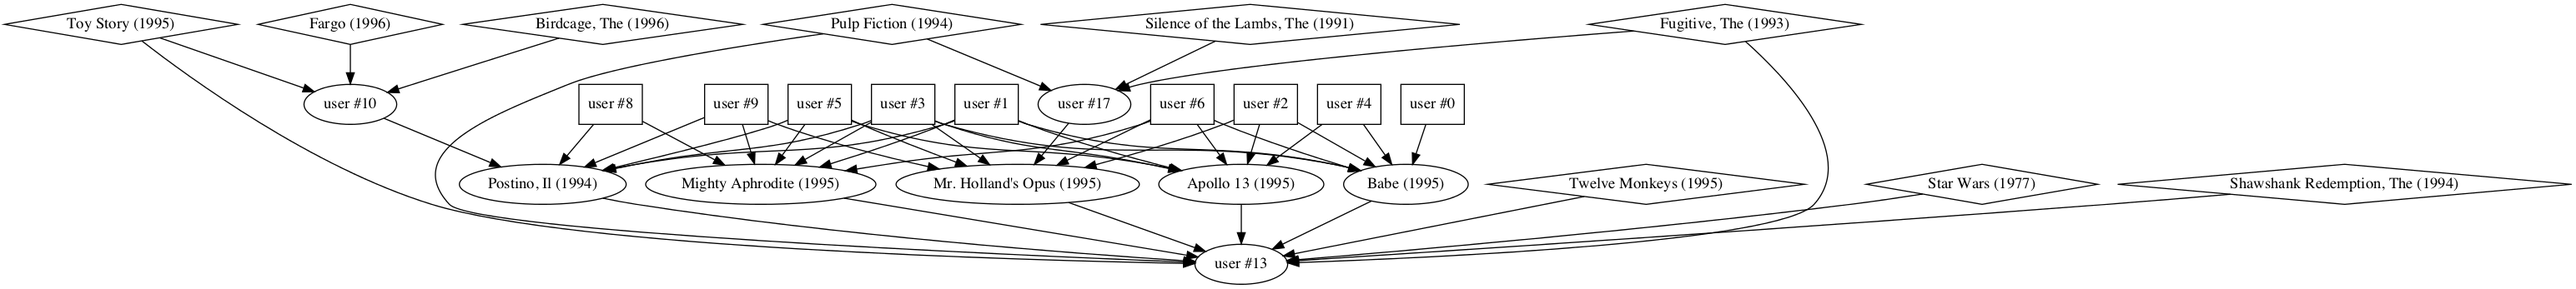
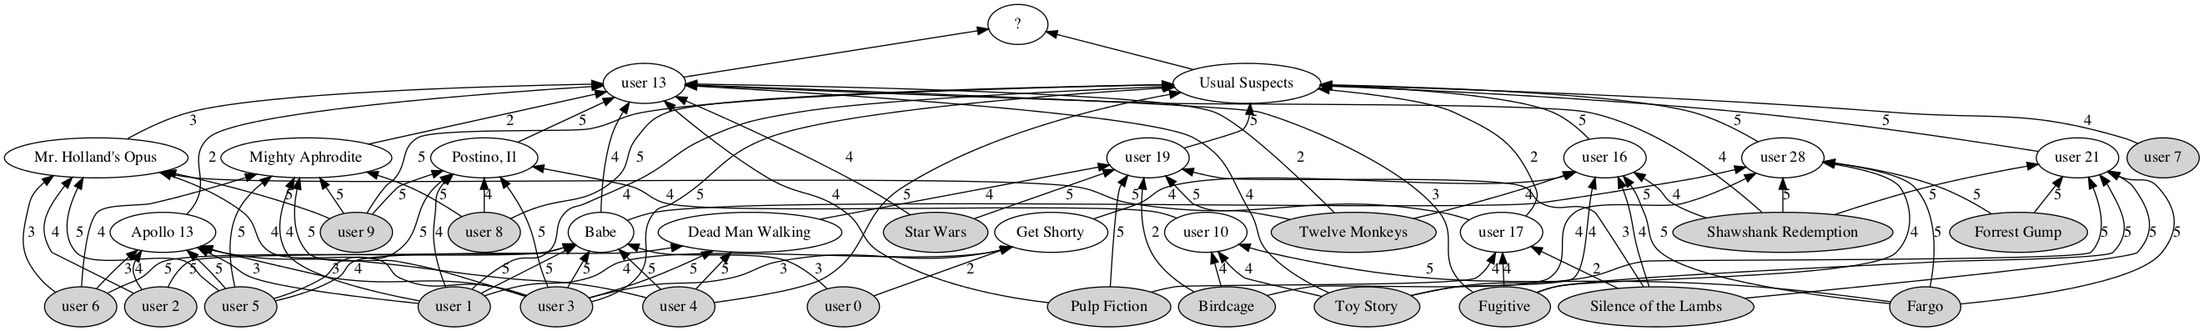
Graphing works as should

diff --git a/Framework/GenGraph.py b/Framework/GenGraph.py
@@ -19,7 +19,7 @@ def numel(items = [], isMovie = 0, names=[[],[]], call_train = {}, data = None):
             numel(items,not isMovie, names, child,data)
     return items
 
-def draw_stuff(names,call_train,data):
+def draw_stuff(names,call_trains,data):
     with warnings.catch_warnings():
         warnings.filterwarnings("ignore")
         import igraph
@@ -27,35 +27,38 @@ def draw_stuff(names,call_train,data):
         igraph.__version__
 
         g = pgv.AGraph(directed=True,ranksep='.1',nodesep='.1')
-        print call_train
-
-        edges = numel([],0,names,call_train, data)
-        print edges
-        sublprop = zip(*edges)[:2]
-        vertices = set([item for sublist in sublprop for item in sublist])
-        #Create mapped edges
-        g.add_nodes_from(vertices)
-        for edge in edges:
-            print "New edge"
-            print edge
-            g.add_edge(edge[1],edge[0],label=edge[2],dir='back')
-
+        print call_trains
+        ind = 0
+        for call_train in call_trains:
+            edges = numel([],ind,names,call_train, data)
+            print edges
+            sublprop = zip(*edges)[:2]
+            vertices = set([item for sublist in sublprop for item in sublist])
+            #Create mapped edges
+            g.add_nodes_from(vertices)
+            for edge in edges:
+                print "New edge"
+                print edge
+                g.add_edge(edge[1],edge[0],label=edge[2],dir='back')
+            ind+=1
         for x in range(100):
             #User
             try:
                 n = g.get_node(names[0][x])
                 if x < 10:
-                    n.attr['shape'] = 'box'
-                n.attr['color'] = 'blue'
+                    n.attr['style'] = 'filled'
+                #n.attr['color'] = 'blue'
             except:
                 pass
             try:
                 n = g.get_node(names[1][x])
                 if x < 10 :
-                    n.attr['shape'] = 'box'
-                n.attr['color'] = 'green'
+                    n.attr['style'] = 'filled'
+                #n.attr['color'] = 'green'
             except:
                 pass
+            g.add_edge(names[0][call_trains[0].keys()[0]],'?',dir='back')
+            g.add_edge(names[1][call_trains[1].keys()[0]],'?',dir='back')
         g = g.reverse()
         g.layout(prog="dot",)
         g.draw('file.png')

diff --git a/Framework/atnn.py b/Framework/atnn.py
@@ -8,7 +8,8 @@ print core.__file__
 #full_data = DataLoader().LoadData(file_path="../Data/ml-10m/ratingsbetter.dat", data_type=DataLoader.MOVIELENS, size= (72000,11000))
 #full_data = DataLoader().LoadData(file_path="../Data/ml-1m/ratingsbetter.dat", data_type=DataLoader.MOVIELENS, size= (6100,4000))
 full_data = DataLoader().LoadData(file_path="../Data/ml-100k/u.data", data_type=DataLoader.MOVIELENS, size= (1200,2000))
-print full_data.shape
+#full_data = DataLoader().LoadData(file_path="../Data/download/user_first.txt", data_type=DataLoader.NETFLIX, size= (490000,18000))
+#print full_data.shape
 print np.mean(np.sum(full_data > 0,axis = 1)) #Check average ratings per user
 # Reduce the matrix to toy size
 full_data = full_data[:100,:100]
@@ -50,20 +51,21 @@ print can_idx
 with open("../Data/ml-100k/u.item") as f:
     names = [x.split('|')[1] for x in f.readlines()]
 
-names = [names[x] for x in can_idx[1]]
-unames = ["user #" + str(i) for i in range(88)]
+names = [names[x].split('(')[0].strip().replace(', The','') for x in can_idx[1]]
+unames = ["user " + str(i) for i in range(88)]
 names = [unames,names]
 print names
-
-call_train = {13:[]}
+call_train1 = {13:[]}
+call_train2 = {19:[]}
 #train_data[15,9]=0
 ltrain = listify(train_data)
 setup_caches(ltrain)
-getUserLatent(parameters,ltrain,13,call_train = call_train)
-draw_stuff(names,call_train,train_data)
+getUserLatent(parameters,ltrain,13,call_train = call_train1)
+getMovieLatent(parameters,ltrain,19,call_train = call_train2)
+draw_stuff(names,[call_train1,call_train2],train_data)
 global TRAININGMODE
 TRAININGMODE = True
-print_train(0,0,names,*[call_train])
+#print_train(0,0,names,*[call_train])
 raw_input()
 # Train the parameters.  Pretraining the nets and canon latents are optional.
 parameters = train(train_data, test_data, can_idx, train_idx, test_idx, parameters,

diff --git a/Framework/NMF_ATNN.py b/Framework/NMF_ATNN.py
@@ -14,9 +14,9 @@ Initialize all non-mode-specific parameters
 """
 
 curtime = 0
-MAX_RECURSION = 1
+MAX_RECURSION = 3
 TRAININGMODE = False
-EVIDENCELIMIT = 10
+EVIDENCELIMIT = 6
 RATINGLIMIT = 50
 
 train_mse_iters = []
